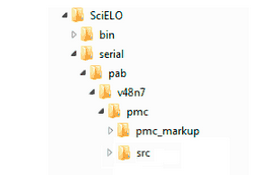
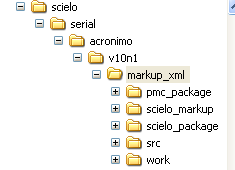
Atualização a documentação sobre a mudança da estrutura dos diretórios
Fixes #533

Changed region(s): [[0.0596, 0.0, 0.9234, 1.0], [0.9532, 0.0, 1.0, 1.0]]

diff --git a/docs/source/markup.rst b/docs/source/markup.rst
@@ -47,8 +47,8 @@ Files location for SGML Markup
 Files location for XML Markup
 ..............................
 
-- .doc or .html file: /scielo/serial/<acron>/<issue_identification>/pmc/pmc_markup
-- other files: /scielo/serial/<acron>/<issue_identification>/pmc/src (images, PDF, etc)
+- .doc or .html file: /scielo/serial/<acron>/<issue_identification>/markup_xml/scielo_markup
+- other files: /scielo/serial/<acron>/<issue_identification>/markup_xml/src (images, PDF, etc)
 
 .. image:: img/markup_file_system.png
 
